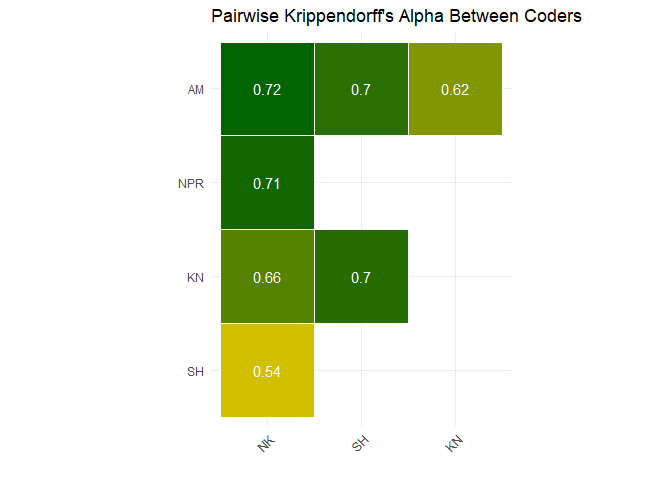
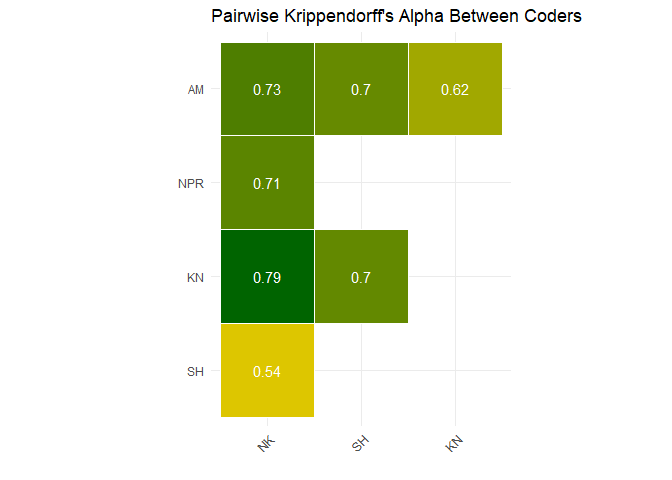
fixing quarto update action

Changed region(s): [[0.3125, 0.0625, 0.75, 0.6875]]

diff --git a/src/classifier/gpt_classifier.py b/src/classifier/gpt_classifier.py
@@ -46,13 +46,13 @@ def create_llm(temperature, model_name, logprobs=False):
 
     if logprobs:
         llm = ChatOpenAI(temperature=temperature, model=model_name).bind(logprobs=True)
-        return llm
+
     else: 
         llm = ChatOpenAI(temperature=temperature, model=model_name).with_structured_output(
             Classification,
             include_raw=False
             )
-        return llm
+    return llm
         
 
 def generate_label(llm:ChatOpenAI, input, logprobs=False):

diff --git a/src/data-processing/quarto_test/topic_report.md b/src/data-processing/quarto_test/topic_report.md
@@ -47,11 +47,11 @@ topic.
 
 |     Topic      | Completed | Total | Percentage Done | Reliability (α) |
 |:--------------:|:---------:|:-----:|:---------------:|:---------------:|
-|  Agriculture   |    790    |  102  |       13%       |      0.65       |
-|  CivilRights   |   1819    | 1819  |      100%       |      0.67       |
+|  Agriculture   |    790    |  138  |       17%       |      0.68       |
+|  CivilRights   |   1819    | 1898  |      104%       |      0.67       |
 |    Defense     |    682    |   0   |       0%        |       NA        |
 |       EU       |    387    |   0   |       0%        |       NA        |
-|    Economic    |   1588    |  908  |       57%       |      0.70       |
+|    Economic    |   1588    | 1472  |       93%       |      0.69       |
 |   Education    |    561    |  50   |       9%        |      0.26       |
 |  Environment   |   1650    | 1650  |      100%       |      0.69       |
 |   Government   |   1774    |   0   |       0%        |       NA        |
@@ -67,7 +67,7 @@ topic.
 
 ![](topic_report_files/figure-commonmark/pairwise-plots-1.png)
 
-#### Topic α score: 0.6997512
+#### Topic α score: 0.6870683
 
 ## Topic: Immigration
 
@@ -79,7 +79,7 @@ topic.
 
 ![](topic_report_files/figure-commonmark/pairwise-plots-3.png)
 
-#### Topic α score: 0.669788
+#### Topic α score: 0.6694982
 
 ## Topic: Environment
 
@@ -91,7 +91,7 @@ topic.
 
 ![](topic_report_files/figure-commonmark/pairwise-plots-5.png)
 
-#### Topic α score: 0.6531204
+#### Topic α score: 0.681241
 
 ## Topic: Education
 
